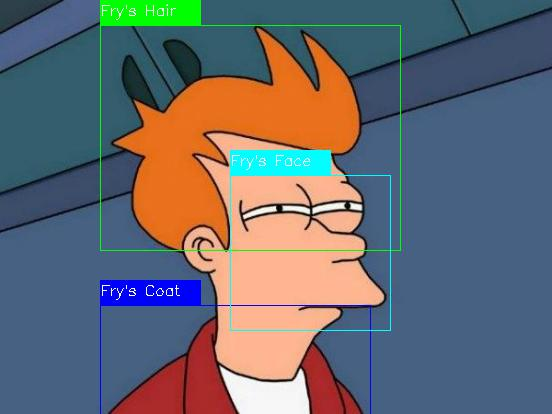
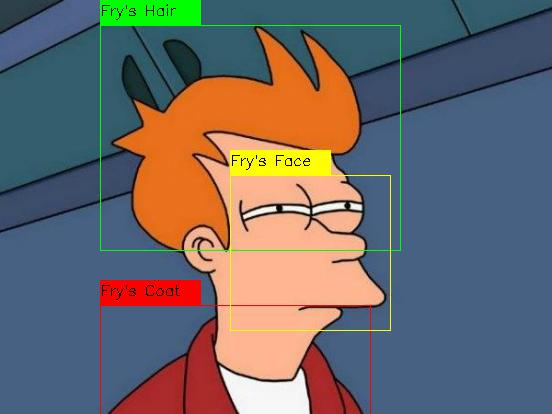
color updates

Changed region(s): [[0.154, 0.3478, 0.7083, 1.0], [0.1848, 0.0, 0.2464, 0.058], [0.2772, 0.0, 0.308, 0.058]]

diff --git a/image_annotation.py b/image_annotation.py
@@ -9,17 +9,17 @@ img_copy = img.copy()
 # Hair rectangle
 cv.rectangle(img_copy, (100,250), (400,25), (0,255,0))
 cv.rectangle(img_copy, (100, 25), (200, 0), (0, 255, 0), cv.FILLED)
-cv.putText(img_copy, 'Fry\'s Hair', (100, 15), cv.FONT_HERSHEY_SIMPLEX, 0.5, (255, 255, 255))
+cv.putText(img_copy, 'Fry\'s Hair', (100, 15), cv.FONT_HERSHEY_SIMPLEX, 0.5, (0, 0, 0))
 
 # Coat rectangle
-cv.rectangle(img_copy, (100, 415), (370, 305), (255, 0, 0))
-cv.rectangle(img_copy, (100, 305), (200, 280), (255, 0, 0), cv.FILLED)
-cv.putText(img_copy, 'Fry\'s Coat', (100, 295), cv.FONT_HERSHEY_SIMPLEX, 0.5, (255, 255, 255))
+cv.rectangle(img_copy, (100, 415), (370, 305), (0, 0, 255))
+cv.rectangle(img_copy, (100, 305), (200, 280), (0, 0, 255), cv.FILLED)
+cv.putText(img_copy, 'Fry\'s Coat', (100, 295), cv.FONT_HERSHEY_SIMPLEX, 0.5, (0, 0, 0))
 
 # Face rectangle
-cv.rectangle(img_copy, (230, 330), (390, 175), (255, 255, 0))
-cv.rectangle(img_copy, (230, 175), (330, 150), (255, 255, 0), cv.FILLED)
-cv.putText(img_copy, 'Fry\'s Face', (230, 165), cv.FONT_HERSHEY_SIMPLEX, 0.5, (255, 255, 255))
+cv.rectangle(img_copy, (230, 330), (390, 175), (0, 255, 255))
+cv.rectangle(img_copy, (230, 175), (330, 150), (0, 255, 255), cv.FILLED)
+cv.putText(img_copy, 'Fry\'s Face', (230, 165), cv.FONT_HERSHEY_SIMPLEX, 0.5, (0, 0, 0))
 
 
 cv.imshow('image', img_copy)
